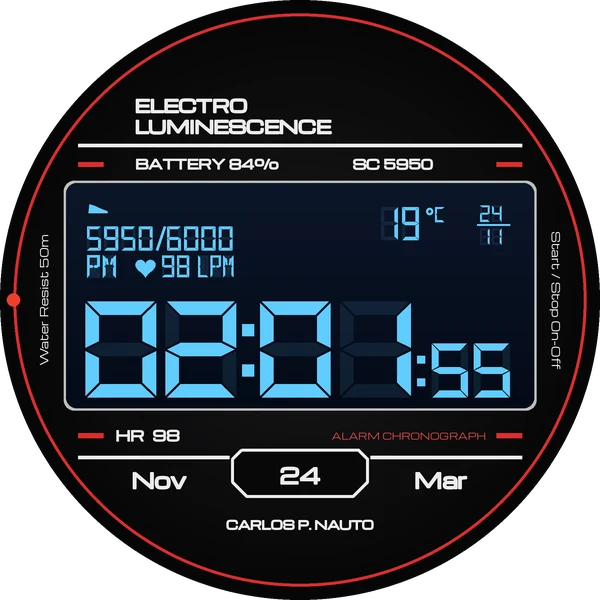
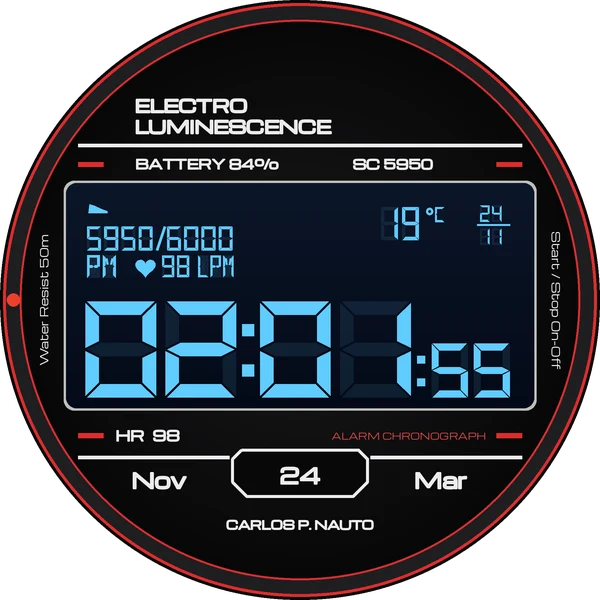
Electro: doble borde (aro de color afuera, banda oscura y aro fino adentro)
Claude-Session: https://claude.ai/code/session_01RTdv2VrACuR4VFWJLA57hx

Changed region(s): [[0.0, 0.0, 1.0, 1.0]]

diff --git a/android/esferas-de-reloj/electro/src/main/java/cl/carlospnauto/esfera/FaceService.kt b/android/esferas-de-reloj/electro/src/main/java/cl/carlospnauto/esfera/FaceService.kt
@@ -306,9 +306,15 @@ class ElectroRenderer(
             fill.shader = RadialGradient(cx, cy, r, Color.rgb(26, 26, 28), Color.rgb(6, 6, 7), Shader.TileMode.CLAMP)
             canvas.drawCircle(cx, cy, r, fill)
             fill.shader = null
+            // Doble borde: aro de color afuera, banda oscura y otro aro fino adentro
+            stroke.color = Color.rgb(30, 30, 33)
+            stroke.strokeWidth = r * 0.05f
+            canvas.drawCircle(cx, cy, r * 0.957f, stroke)
             stroke.color = acc.ring
-            stroke.strokeWidth = r * 0.011f
-            canvas.drawCircle(cx, cy, r * 0.955f, stroke)
+            stroke.strokeWidth = r * 0.01f
+            canvas.drawCircle(cx, cy, r * 0.984f, stroke)
+            stroke.strokeWidth = r * 0.007f
+            canvas.drawCircle(cx, cy, r * 0.93f, stroke)
             // Lucecita roja del costado
             fill.color = Color.rgb(236, 64, 44)
             canvas.drawCircle(X(-0.955f), cy, r * 0.022f, fill)
